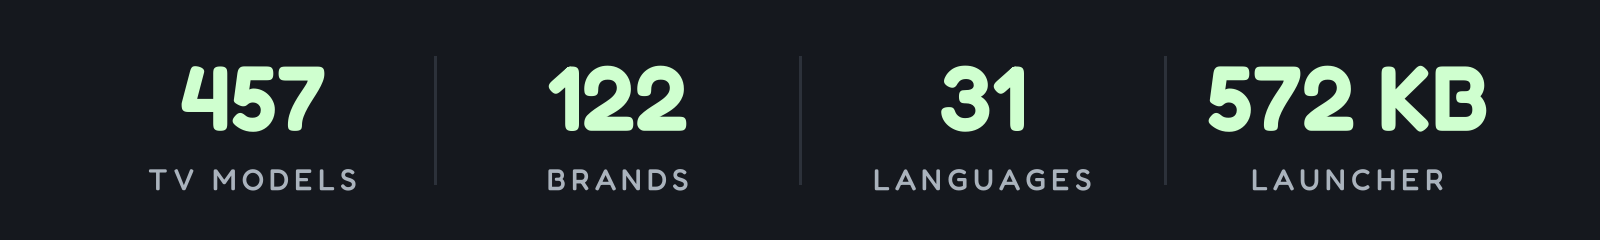
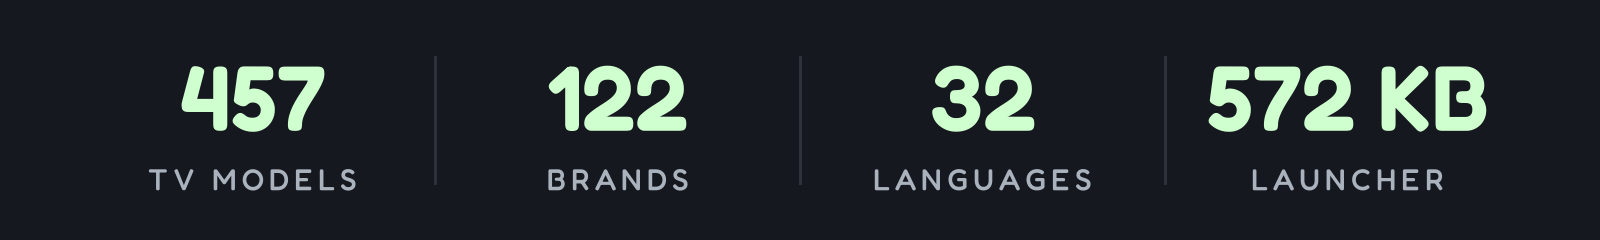
Launcher: add Hungarian (values-hu)
Every translatable string in values/strings.xml, in the default file's order, registered in
locales_config.xml, docs/launcher.md and the tests' name table; the language count moves to 32.
The Ukrainian count row is read back in its declined form (32 мови), which tools/gen_tables.py writes.

Claude-Session: https://claude.ai/code/session_01FuRsu9evEBdnrXWfjRcKfX

Changed region(s): [[0.5625, 0.2625, 0.6562, 0.5542]]

diff --git a/tests/test_readme_language_count.py b/tests/test_readme_language_count.py
@@ -56,9 +56,14 @@ def front_pages(root=ROOT):
     return sorted(p for p in root.glob("README*.md") if p.is_file())
 
 
+# Ukrainian declines the word by number, and tools/gen_tables.py writes the declined form (31 мова,
+# 32 мови, 35 мов), so the row is read back under the table's one word.
+DECLINED = {"мови": "мова", "мов": "мова"}
+
+
 def rows(text):
     """[(number, word)] for every `| **N word** |` row on a page, in page order."""
-    return [(int(m.group(1)), m.group(2).strip()) for m in ROW.finditer(text)]
+    return [(int(m.group(1)), DECLINED.get(m.group(2).strip(), m.group(2).strip())) for m in ROW.finditer(text)]
 
 
 def claimed(text, word):

diff --git a/tools/readme_stats.py b/tools/readme_stats.py
@@ -81,7 +81,7 @@ try:
 except ImportError:
     sys.exit("readme_stats.py needs Pillow: tools/venv/bin/pip install -r tools/requirements-perf.txt")
 
-STATS = [("457", "TV MODELS"), ("122", "BRANDS"), ("31", "LANGUAGES"), ("572 KB", "LAUNCHER")]
+STATS = [("457", "TV MODELS"), ("122", "BRANDS"), ("32", "LANGUAGES"), ("572 KB", "LAUNCHER")]
 W, H = 1600, 240
 img = Image.new("RGB", (W, H), "#15181e"); d = ImageDraw.Draw(img)
 def f(size, wt):

diff --git a/tests/test_locales_registered.py b/tests/test_locales_registered.py
@@ -49,6 +49,7 @@ NAMES = {
     "es-419": "Latin American Spanish",
     "fi": "Finnish",
     "fr": "French",
+    "hu": "Hungarian",
     "in": "Indonesian",
     "it": "Italian",
     "iw": "Hebrew",

diff --git a/README.uk.md b/README.uk.md
@@ -20,7 +20,7 @@
 </p>
 
 <p align="center">
-  <a href="docs/PRESS.md"><img src="docs/card.jpg" alt="457 моделей телевізорів · 122 бренди · 31 мова · лончер на 572 КБ. Про нас писали TechCrunch, TechRadar, Tom's Guide, Mashable, Android Authority, XDA, FlatpanelsHD, It's FOSS, Phandroid, GIGAZINE, Xataka, WinFuture, Frandroid, Macitynet, Techaeris, TechPP та ще 396 видань: 412 статей з 54 країн. Було: стандартний головний екран Google TV зі спонсорською рекламою. Стало: лончер Clean Your TV." width="800"></a>
+  <a href="docs/PRESS.md"><img src="docs/card.jpg" alt="457 моделей телевізорів · 122 бренди · 32 мови · лончер на 572 КБ. Про нас писали TechCrunch, TechRadar, Tom's Guide, Mashable, Android Authority, XDA, FlatpanelsHD, It's FOSS, Phandroid, GIGAZINE, Xataka, WinFuture, Frandroid, Macitynet, Techaeris, TechPP та ще 396 видань: 412 статей з 54 країн. Було: стандартний головний екран Google TV зі спонсорською рекламою. Стало: лончер Clean Your TV." width="800"></a>
 </p>
 
 ## З чого почати
@@ -283,7 +283,7 @@ Xiaomi (PatchWall). Передайте `STOCK_LAUNCHER=<package>` (`-StockLaunch
 | **Налаштування** | Порядок дока, приховані застосунки, застосунок ефірного ТБ, від 4 до 7 плиток у рядку, зменшений рух. Усе в [`config.xml`](launcher/app/src/main/res/values/config.xml) |
 | **Налаштування на телевізорі** | Утримайте OK на «Налаштуваннях», щоб відкрити налаштування лончера. Необов'язковий `launcher_settings_button` робить так, що звичайне натискання відкриває їх одразу; налаштування телевізора лишаються на сторінці налаштувань і на своїй плитці |
 | **Теми** | Тло, шпалери й розкладка з `config.json`, надісланого через Wi-Fi, без перезбирання. У [`themes/`](themes/) постачається двадцять вісім, включно з вбудованою `default/` |
-| **31 мова** | Дотримується мови телевізора, з повністю дзеркальним розкладом справа наліво для івриту |
+| **32 мови** | Дотримується мови телевізора, з повністю дзеркальним розкладом справа наліво для івриту |
 | **Бібліотека застосунків** | Необов'язково: перегляд усіх встановлених застосунків і додавання чи прибирання ярликів із головного екрана. Дивіться [посібник із бібліотеки застосунків](docs/app-library.md) |
 | **Меню плитки** | Увімкнено за замовчуванням (`tile_menu`): утримайте OK на плитці для «Перемістити» та «Про застосунок», а з увімкненою бібліотекою застосунків — ще й «Прибрати з головного». Вимкнено — утримання OK відкриває «Про застосунок» |
 | **Картки-модулі** | Будь-який застосунок на телевізорі може запропонувати власну плитку; ви схвалюєте кожну один раз. Дивіться [`docs/modules.md`](docs/modules.md) |

diff --git a/README.nl.md b/README.nl.md
@@ -30,7 +30,7 @@
 </p>
 
 <p align="center">
-  <a href="docs/PRESS.md"><img src="docs/card.jpg" alt="457 tv-modellen · 122 merken · 31 talen · launcher van 572 KB. Genoemd in TechCrunch, TechRadar, Tom's Guide, Mashable, Android Authority, XDA, FlatpanelsHD, It's FOSS, Phandroid, GIGAZINE, Xataka, WinFuture, Frandroid, Macitynet, Techaeris, TechPP en nog 396 media: 412 artikelen uit 54 landen. Voorheen: het standaard Google TV-startscherm met een gesponsorde advertentie. Daarna: de Clean Your TV-launcher." width="800"></a>
+  <a href="docs/PRESS.md"><img src="docs/card.jpg" alt="457 tv-modellen · 122 merken · 32 talen · launcher van 572 KB. Genoemd in TechCrunch, TechRadar, Tom's Guide, Mashable, Android Authority, XDA, FlatpanelsHD, It's FOSS, Phandroid, GIGAZINE, Xataka, WinFuture, Frandroid, Macitynet, Techaeris, TechPP en nog 396 media: 412 artikelen uit 54 landen. Voorheen: het standaard Google TV-startscherm met een gesponsorde advertentie. Daarna: de Clean Your TV-launcher." width="800"></a>
 </p>
 
 **De virale tweet:** [x.com/gathint/status/2111379569030939102](https://x.com/gathint/status/2111379569030939102)
@@ -713,7 +713,7 @@ De **tv** moet Android 8.0 (API 26) of nieuwer gebruiken. `minSdk` stelt de mini
 | **Configuratie** | Volgorde van het dock, verborgen apps, Live-tv-app, 4 tot 7 tegels per rij en minder beweging. Alles staat in [`config.xml`](launcher/app/src/main/res/values/config.xml). |
 | **Instellingen op de tv** | Houd OK ingedrukt op Instellingen om de launcherinstellingen te openen. Met de optionele instelling `launcher_settings_button` opent een gewone klik ze direct; de tv-instellingen blijven beschikbaar via de instellingenpagina en de tegel van die app. |
 | **Thema's** | Achtergrond, wallpaper en indeling komen uit een via wifi verzonden `config.json`; opnieuw bouwen is niet nodig. In [`themes/`](themes/) staan achtentwintig thema's, inclusief het ingebouwde `default/`. |
-| **31 talen** | Volgt de taal van de tv, met een volledig gespiegeld rechts-naar-links ontwerp voor Hebreeuws. |
+| **32 talen** | Volgt de taal van de tv, met een volledig gespiegeld rechts-naar-links ontwerp voor Hebreeuws. |
 | **Appbibliotheek** | Optioneel: bekijk alle geïnstalleerde apps en voeg snelkoppelingen op het startscherm toe of verwijder ze. Zie [de handleiding voor de appbibliotheek](docs/app-library.md). |
 | **Tegelmenu** | Standaard aan (`tile_menu`): houd OK ingedrukt op een tegel voor Verplaatsen en App-info, en met de appbibliotheek aan ook Verwijderen van startscherm. Staat dit uit, dan opent lang indrukken de app-info. |
 | **Modulekaarten** | Elke tv-app kan een eigen tegel aanbieden; je keurt elke app één keer goed. Zie [`docs/modules.md`](docs/modules.md). |

diff --git a/README.tr.md b/README.tr.md
@@ -20,7 +20,7 @@
 </p>
 
 <p align="center">
-  <a href="docs/PRESS.md"><img src="docs/card.jpg" alt="457 TV modeli · 122 marka · 31 dil · 572 KB başlatıcı. Yer aldığı yayınlar: TechCrunch, TechRadar, Tom's Guide, Mashable, Android Authority, XDA, FlatpanelsHD, It's FOSS, Phandroid, GIGAZINE, Xataka, WinFuture, Frandroid, Macitynet, Techaeris, TechPP ve 396 yayın daha: 54 ülkeden 412 makale. Önce: sponsorlu reklam içeren standart Google TV ana ekranı. Sonra: Clean Your TV başlatıcısı." width="800"></a>
+  <a href="docs/PRESS.md"><img src="docs/card.jpg" alt="457 TV modeli · 122 marka · 32 dil · 572 KB başlatıcı. Yer aldığı yayınlar: TechCrunch, TechRadar, Tom's Guide, Mashable, Android Authority, XDA, FlatpanelsHD, It's FOSS, Phandroid, GIGAZINE, Xataka, WinFuture, Frandroid, Macitynet, Techaeris, TechPP ve 396 yayın daha: 54 ülkeden 412 makale. Önce: sponsorlu reklam içeren standart Google TV ana ekranı. Sonra: Clean Your TV başlatıcısı." width="800"></a>
 </p>
 
 ## Buradan başlayın
@@ -282,7 +282,7 @@ bir cihazda neyin kaldığı [Sorun giderme](docs/TROUBLESHOOTING.md) belgesinde
 | **Yapılandırma** | Dock sırası, gizli uygulamalar, Canlı TV uygulaması, satır başına 4 ile 7 arası kutucuk, azaltılmış hareket. Hepsi [`config.xml`](launcher/app/src/main/res/values/config.xml) içinde |
 | **TV'deki ayarlar** | Başlatıcı ayarları için Ayarlar üzerinde OK'u basılı tutun. İsteğe bağlı `launcher_settings_button`, normal bir tıklamanın onları doğrudan açmasını sağlar; TV ayarları ayarlar sayfasında ve kendi uygulama kutucuğunda kalır. |
 | **Temalar** | Wi-Fi üzerinden gönderilen bir `config.json` ile arka plan, duvar kâğıdı ve düzen, yeniden derleme yok. Yerleşik `default/` dahil 28 tema [`themes/`](themes/) içinde gelir |
-| **31 dil** | TV'nin diline uyar; İbranice için tamamen aynalanmış, sağdan sola bir düzen sunar |
+| **32 dil** | TV'nin diline uyar; İbranice için tamamen aynalanmış, sağdan sola bir düzen sunar |
 | **Uygulama kitaplığı** | İsteğe bağlı: yüklü tüm uygulamalara göz atın ve Ana ekran kısayolları ekleyin veya kaldırın. Bkz. [uygulama kitaplığı kılavuzu](docs/app-library.md) |
 | **Kutucuk menüsü** | Varsayılan olarak açık (`tile_menu`): Taşı ve Uygulama bilgisi için bir kutucukta OK'u basılı tutun; uygulama kitaplığı açıksa Ana ekrandan kaldır da çıkar. Kapalıyken OK'u basılı tutmak Uygulama bilgisini açar |
 | **Modül kartları** | Herhangi bir TV uygulaması kendi kutucuğunu sunabilir; her birini bir kez onaylarsınız. Bkz. [`docs/modules.md`](docs/modules.md) |

diff --git a/README.de.md b/README.de.md
@@ -20,7 +20,7 @@
 </p>
 
 <p align="center">
-  <a href="docs/PRESS.md"><img src="docs/card.jpg" alt="457 TV-Modelle · 122 Marken · 31 Sprachen · Launcher mit 572 KB. Erwähnt in TechCrunch, TechRadar, Tom's Guide, Mashable, Android Authority, XDA, FlatpanelsHD, It's FOSS, Phandroid, GIGAZINE, Xataka, WinFuture, Frandroid, Macitynet, Techaeris, TechPP und 396 weitere: 412 Artikel aus 54 Ländern. Vorher: der Google-TV-Startbildschirm mit einer bezahlten Anzeige. Nachher: der Clean-Your-TV-Launcher." width="800"></a>
+  <a href="docs/PRESS.md"><img src="docs/card.jpg" alt="457 TV-Modelle · 122 Marken · 32 Sprachen · Launcher mit 572 KB. Erwähnt in TechCrunch, TechRadar, Tom's Guide, Mashable, Android Authority, XDA, FlatpanelsHD, It's FOSS, Phandroid, GIGAZINE, Xataka, WinFuture, Frandroid, Macitynet, Techaeris, TechPP und 396 weitere: 412 Artikel aus 54 Ländern. Vorher: der Google-TV-Startbildschirm mit einer bezahlten Anzeige. Nachher: der Clean-Your-TV-Launcher." width="800"></a>
 </p>
 
 ## Einstieg
@@ -260,7 +260,7 @@ Gerät übrig bleibt, steht in der [Fehlerbehebung](docs/TROUBLESHOOTING.md).
 | **Einrichten** | Dock-Reihenfolge, versteckte Apps, Live-TV-App, 4 bis 7 Kacheln je Zeile, reduzierte Bewegung. Alles in [`config.xml`](launcher/app/src/main/res/values/config.xml) |
 | **Einstellungen am Fernseher** | OK auf Einstellungen halten für die Launcher-Einstellungen. Ein optionales `launcher_settings_button` lässt einen normalen Klick sie direkt öffnen; die TV-Einstellungen bleiben auf der Einstellungsseite und ihrer App-Kachel. |
 | **Themes** | Hintergrund, Wallpaper und Layout aus einer `config.json`, über WLAN aufgespielt, ohne neuen Build. Achtundzwanzig liegen in [`themes/`](themes/), das eingebaute `default/` mitgerechnet |
-| **31 Sprachen** | Folgt der Sprache des Fernsehers, mit vollständig gespiegeltem Layout von rechts nach links für Hebräisch |
+| **32 Sprachen** | Folgt der Sprache des Fernsehers, mit vollständig gespiegeltem Layout von rechts nach links für Hebräisch |
 | **App-Bibliothek** | Optional: jede installierte App durchsehen und Home-Verknüpfungen hinzufügen oder entfernen. Siehe [die Anleitung zur App-Bibliothek](docs/app-library.md) |
 | **Kachelmenü** | Standardmäßig an (`tile_menu`): OK auf einer Kachel halten für Verschieben und App-Info, mit eingeschalteter App-Bibliothek auch Von Home entfernen. Aus: OK halten öffnet App-Info |
 | **Modul-Karten** | Jede TV-App kann eine eigene Kachel anbieten; du stimmst jeder einmal zu. Siehe [`docs/modules.md`](docs/modules.md) |

diff --git a/README.md b/README.md
@@ -20,7 +20,7 @@
 </p>
 
 <p align="center">
-  <a href="docs/PRESS.md"><img src="docs/card.jpg" alt="457 TV models · 122 brands · 31 languages · 572 KB launcher. Featured in TechCrunch, TechRadar, Tom's Guide, Mashable, Android Authority, XDA, FlatpanelsHD, It's FOSS, Phandroid, GIGAZINE, Xataka, WinFuture, Frandroid, Macitynet, Techaeris, TechPP and 396 more: 412 articles from 54 countries. Before: stock Google TV home with a sponsored ad. After: the Clean Your TV launcher." width="800"></a>
+  <a href="docs/PRESS.md"><img src="docs/card.jpg" alt="457 TV models · 122 brands · 32 languages · 572 KB launcher. Featured in TechCrunch, TechRadar, Tom's Guide, Mashable, Android Authority, XDA, FlatpanelsHD, It's FOSS, Phandroid, GIGAZINE, Xataka, WinFuture, Frandroid, Macitynet, Techaeris, TechPP and 396 more: 412 articles from 54 countries. Before: stock Google TV home with a sponsored ad. After: the Clean Your TV launcher." width="800"></a>
 </p>
 
 ## Start here
@@ -285,7 +285,7 @@ set is in [Troubleshooting](docs/TROUBLESHOOTING.md).
 | **Configure** | Dock order, hidden apps, Live TV app, 4 to 7 tiles per row, reduced motion. All in [`config.xml`](launcher/app/src/main/res/values/config.xml) |
 | **Settings on the TV** | Hold OK on Settings for launcher settings. Optional `launcher_settings_button` makes a normal click open them directly; TV settings remain on the settings page and their app tile. |
 | **Themes** | Background, wallpaper and layout from a `config.json` pushed over Wi-Fi, no rebuild. Twenty-eight ship in [`themes/`](themes/), the built-in `default/` included |
-| **31 languages** | Follows the TV's language, with a fully mirrored right-to-left layout for Hebrew |
+| **32 languages** | Follows the TV's language, with a fully mirrored right-to-left layout for Hebrew |
 | **App library** | Optional: browse every installed app and add or remove Home shortcuts. See [the app library guide](docs/app-library.md) |
 | **Tile menu** | On by default (`tile_menu`): hold OK on a tile for Move and App info, plus Remove from Home when the app library is on. Off, holding OK opens App info |
 | **Module cards** | Any TV app can offer its own tile; you approve each one once. See [`docs/modules.md`](docs/modules.md) |

diff --git a/README.he.md b/README.he.md
@@ -237,7 +237,7 @@ TV_HOST=192.168.1.50 tools/venv/bin/python -I tools/privacy.py
 | **התאמה אישית** | סדר המועדפים, אפליקציות מוסתרות, אפליקציית שידור חי, 4 עד 7 אריחים בשורה והפחתת תנועה. ההגדרות נמצאות ב־[config.xml](launcher/app/src/main/res/values/config.xml). |
 | **הגדרות בטלוויזיה** | לחיצה ארוכה על OK בכפתור ההגדרות פותחת את הגדרות מסך הבית. עם <code dir="ltr">launcher_settings_button</code> מספיקה לחיצה רגילה. הגדרות הטלוויזיה זמינות גם מדף ההגדרות ומאריח האפליקציה. |
 | **ערכות עיצוב** | רקע, תמונה ופריסה מקובץ <code dir="ltr">config.json</code> שנשלח דרך הרשת. יש 28 ערכות ב־[themes](themes/), כולל ברירת המחדל. |
-| **31 שפות** | השפה נקבעת לפי הטלוויזיה. בעברית הפריסה מוצגת מימין לשמאל. |
+| **32 שפות** | השפה נקבעת לפי הטלוויזיה. בעברית הפריסה מוצגת מימין לשמאל. |
 | **ספריית אפליקציות** | אפשר לדפדף בכל האפליקציות המותקנות ולהוסיף או להסיר קיצורי דרך ממסך הבית. [מדריך](docs/app-library.md) |
 | **תפריט אריח** | <code dir="ltr">tile_menu</code> מופעל כברירת מחדל. לחיצה ארוכה על OK מאפשרת להזיז אריח ולפתוח פרטי אפליקציה. כשספריית האפליקציות מופעלת אפשר גם להסיר את האריח מהבית. כשהתפריט כבוי, לחיצה ארוכה פותחת את פרטי האפליקציה. |
 | **כרטיסי תוספים** | אפליקציות יכולות להציע אריח שמוצג לאחר אישור חד־פעמי. [מפרט הכרטיסים](docs/modules.md) |

diff --git a/README.pt-BR.md b/README.pt-BR.md
@@ -284,7 +284,7 @@ explicado em [Solução de problemas](docs/TROUBLESHOOTING.md).
 | **Configuração** | Ordem do dock, aplicativos ocultos, aplicativo de TV ao vivo, de 4 a 7 blocos por linha e animações reduzidas. Tudo em [`config.xml`](launcher/app/src/main/res/values/config.xml). |
 | **Configurações na TV** | Mantenha OK pressionado em Configurações para abrir as configurações do launcher. Opcionalmente, `launcher_settings_button` faz com que um clique normal as abra diretamente; as configurações da TV continuam disponíveis na página de configurações e no bloco do aplicativo correspondente. |
 | **Temas** | Plano de fundo, papel de parede e layout definidos em um `config.json` enviado pelo Wi-Fi, sem recompilação. 28 temas estão incluídos em [`themes/`](themes/), incluindo o `default/` integrado. |
-| **31 idiomas** | Segue o idioma da TV, com layout totalmente espelhado da direita para a esquerda em hebraico. |
+| **32 idiomas** | Segue o idioma da TV, com layout totalmente espelhado da direita para a esquerda em hebraico. |
 | **Biblioteca de aplicativos** | Opcional: permite navegar por todos os aplicativos instalados e adicionar ou remover atalhos da tela inicial. Consulte [o guia da biblioteca de aplicativos](docs/app-library.md). |
 | **Menu dos blocos** | Ativado por padrão (`tile_menu`): mantenha OK pressionado em um bloco para acessar Mover, Remover da tela inicial e Informações do app. Se estiver desativado, manter OK pressionado abre Informações do app. |
 | **Cartões de módulos** | Qualquer aplicativo de TV pode oferecer seu próprio bloco; você aprova cada um apenas uma vez. Consulte [`docs/modules.md`](docs/modules.md). |

diff --git a/README.uz.md b/README.uz.md
@@ -278,7 +278,7 @@ Eskiroq qurilmada nima qolgani [Nosozliklarni bartaraf etish](docs/TROUBLESHOOTI
 | **Sozlash** | Dock tartibi, yashirin ilovalar, Jonli TV ilovasi, qatoriga 4 dan 7 gacha katakcha, kamaytirilgan harakat. Hammasi [`config.xml`](launcher/app/src/main/res/values/config.xml) da |
 | **Televizordagi sozlamalar** | Launcher sozlamalari uchun Sozlamalar ustida OK ni bosib turing. Ixtiyoriy `launcher_settings_button` oddiy bosish ularni toʻgʻridan-toʻgʻri ochishini taʼminlaydi; televizor sozlamalari sozlamalar sahifasida va oʻz ilova katakchasida qoladi. |
 | **Mavzular** | Wi-Fi orqali yuborilgan `config.json` bilan fon, fon rasmi va joylashuv, qayta yigʻish yoʻq. Ichki `default/` bilan birga yigirma birta [`themes/`](themes/) da keladi |
-| **31 til** | Televizor tiliga ergashadi; ivrit uchun toʻliq oynalashtirilgan, oʻngdan chapga joylashuv |
+| **32 til** | Televizor tiliga ergashadi; ivrit uchun toʻliq oynalashtirilgan, oʻngdan chapga joylashuv |
 | **Ilovalar kutubxonasi** | Ixtiyoriy: oʻrnatilgan barcha ilovalarni koʻrib chiqing va Home yorliqlarini qoʻshing yoki olib tashlang. Qarang: [ilovalar kutubxonasi qoʻllanmasi](docs/app-library.md) |
 | **Katakcha menyusi** | Standart boʻyicha yoqilgan (`tile_menu`): Koʻchirish va Ilova maʼlumoti uchun katakchada OK ni bosib turing; ilovalar kutubxonasi yoqilganda Home dan olib tashlash ham chiqadi. Oʻchiqda OK ni bosib turish Ilova maʼlumotini ochadi |
 | **Modul kartochkalari** | Har qanday TV ilovasi oʻz katakchasini taklif qilishi mumkin; har birini bir marta tasdiqlaysiz. Qarang: [`docs/modules.md`](docs/modules.md) |

diff --git a/docs/launcher.md b/docs/launcher.md
@@ -78,7 +78,7 @@ home picker.
 
 English, German, Danish, Spanish, Latin American Spanish, Catalan, French, Russian, Serbian (Latin), Polish, Czech, Italian, Portuguese,
 Turkish, Arabic, Hebrew, Simplified Chinese, Traditional Chinese (Taiwan), Thai, Finnish, Vietnamese,
-Bangla, Indonesian, Norwegian Bokmål, Swedish, Dutch, Uzbek (Latin), Ukrainian, Korean and Asturian. The launcher follows the TV's language. Android 13+ can set it for the launcher
+Bangla, Indonesian, Norwegian Bokmål, Swedish, Dutch, Uzbek (Latin), Ukrainian, Korean, Asturian and Hungarian. The launcher follows the TV's language. Android 13+ can set it for the launcher
 alone: `tools/tv.py 'cmd locale set-app-locales com.gathin.tvhome --locales ca'`.
 
 Hebrew mirrors the layout:
